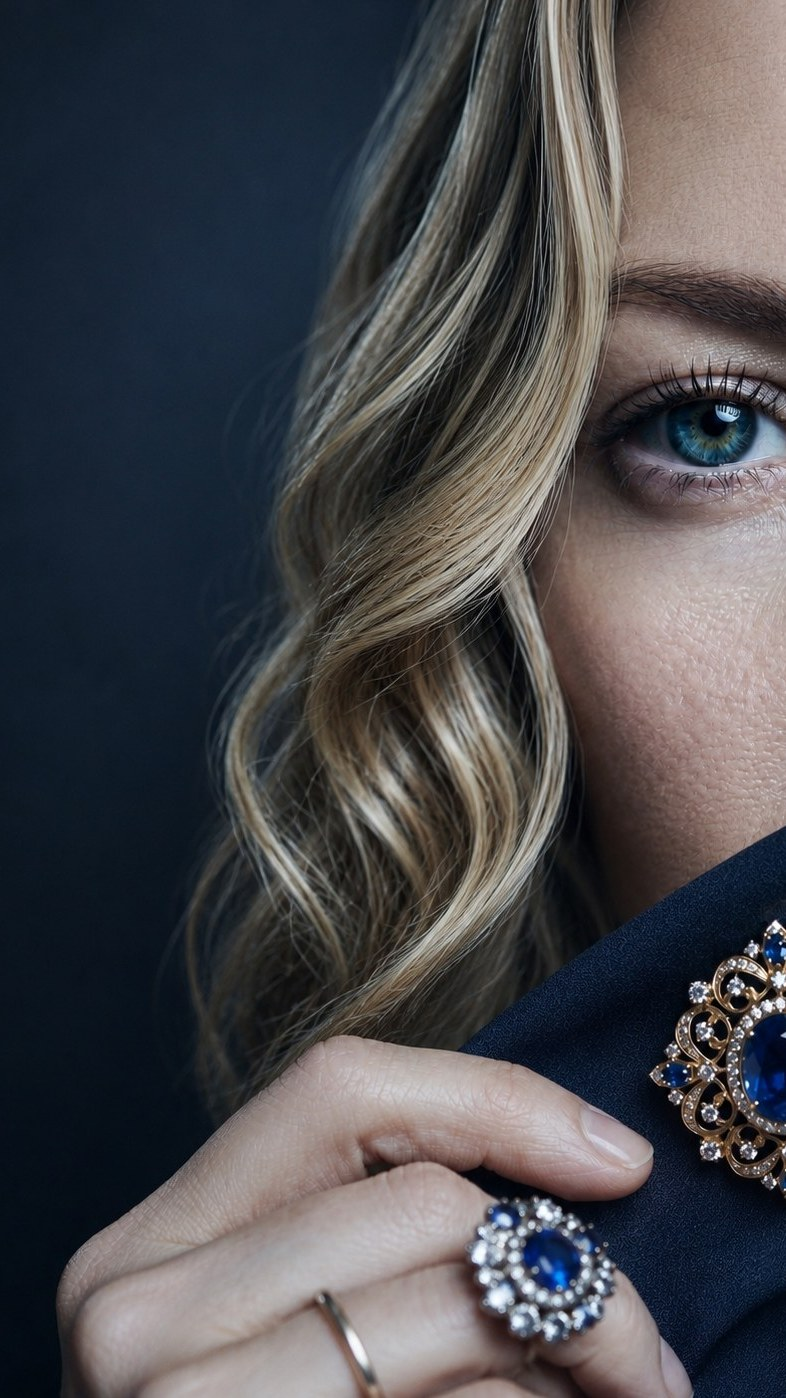
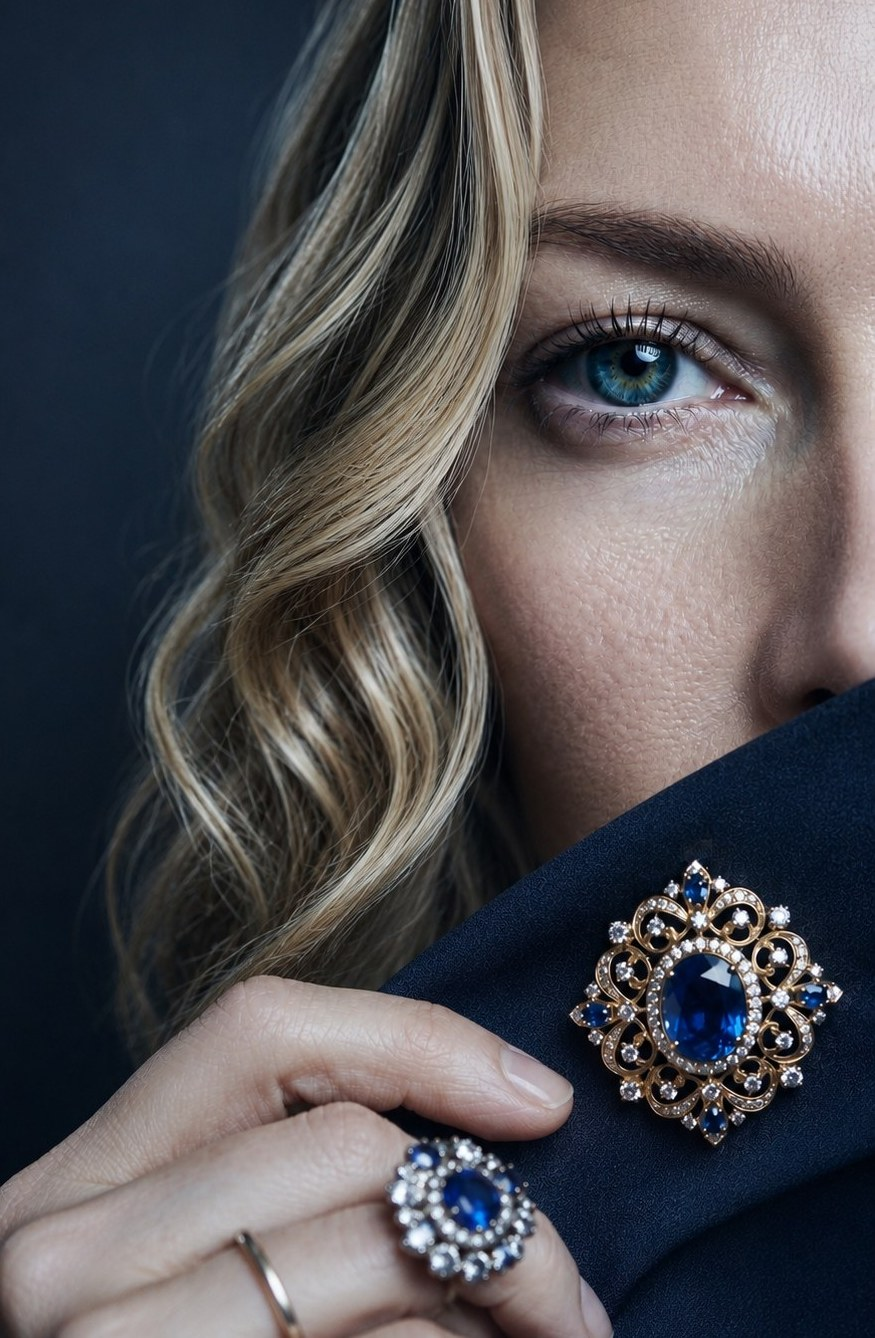
Gallery hero: fill desktop (no navy gap), face-forward mobile crop
Desktop switches to object-fit:cover so the portrait fills the hero and the
face sits close to the editorial text over the image's own dark-left, instead
of floating apart across a navy pillarbox. Mobile gets a new face-forward crop
that shows the woman and the brooch rather than just hair.

https://claude.ai/code/session_01BC1FkBf5en4R9Pu4sdt9vE

diff --git a/gallery.html b/gallery.html
@@ -313,12 +313,11 @@
     inset: 0;
     width: 100%;
     height: 100%;
-    /* Portrait hero shown whole (eye, negative space, and jewelry intact);
-       the matched background fills the sides seamlessly. Anchor right so the
-       subject hugs the right edge and all pillarbox navy pools on the left,
-       behind the editorial text. */
-    object-fit: contain;
-    object-position: right center;
+    /* Fill the hero with the portrait (no pillarbox gap) so the face sits
+       close to the editorial text, over the image's own dark-left space.
+       The vertical anchor keeps the eye and the sapphire brooch in frame. */
+    object-fit: cover;
+    object-position: center 45%;
     z-index: 1;
   }
 
@@ -731,9 +730,9 @@
     .header-mobile-toggle svg { width: 20px; height: 20px; }
 
     .feature { min-height: calc(100svh - var(--ribbon-h)); }
-    /* Phones use a dedicated tall crop (maison-dvue-elixir-banner-mobile.jpg)
-       composed with the subject on the right and dark space on the left, so it
-       fills the hero edge-to-edge with cover rather than letterboxing. */
+    /* Phones use a dedicated face-forward crop (maison-dvue-elixir-banner-mobile.jpg):
+       the woman framed with dark space on the left for the text, filling the hero
+       edge-to-edge with cover. */
     .feature-img { object-fit: cover; object-position: center center; }
     /* Darken the left two-thirds harder on phones so text never sits on the photo. */
     .feature::after {
